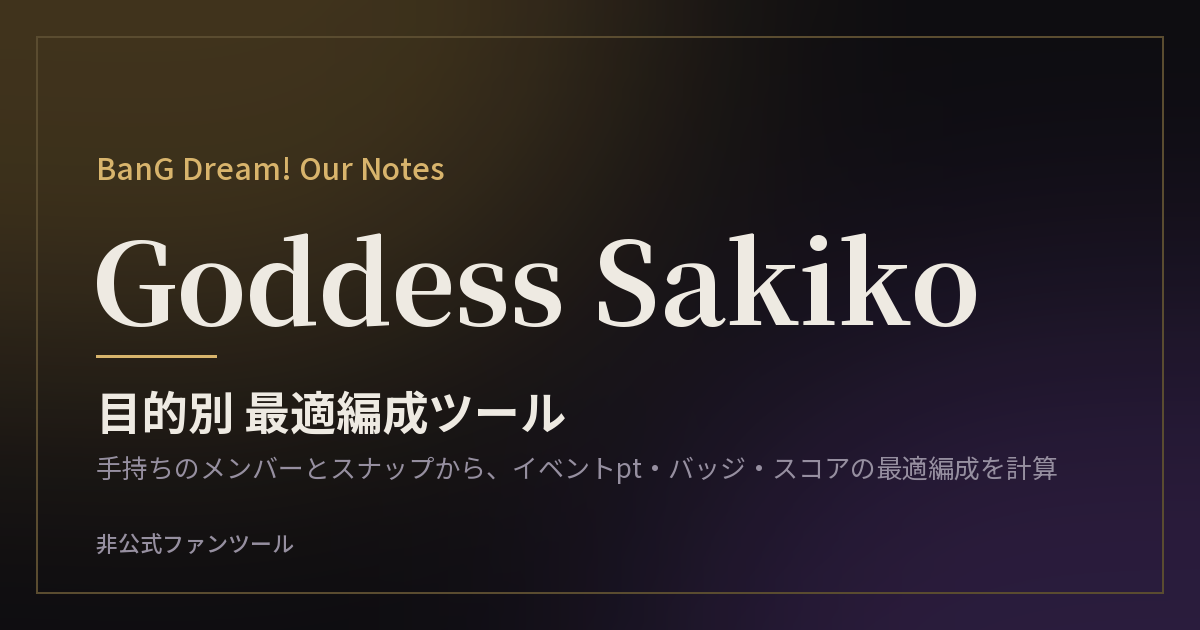
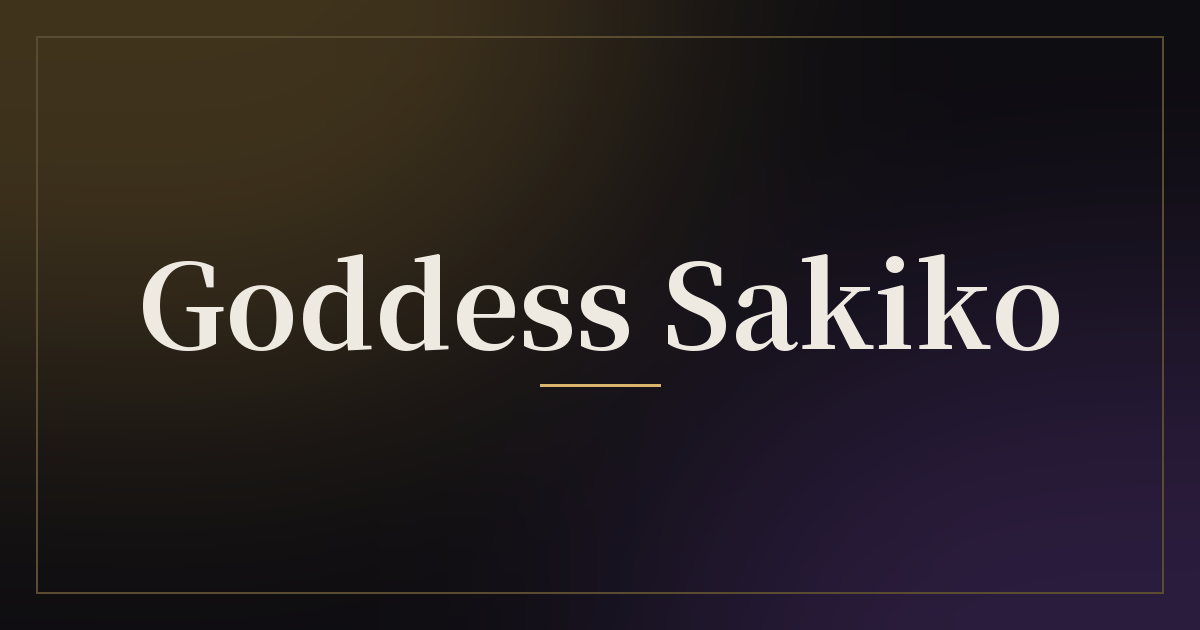
リンクプレビュー画像をタイトルだけに

diff --git a/docs/index.html b/docs/index.html
@@ -1,4 +1,4 @@
-<!doctype html><html lang="ja"><head><meta charset="utf-8"><meta name="viewport" content="width=device-width,initial-scale=1,viewport-fit=cover"><meta name="robots" content="noindex"><meta name="description" content="バンドリ！アワーノーツの手持ちのメンバーとスナップから、イベントpt・バッジ・スコアの最適編成を計算する非公式ツール"><meta property="og:type" content="website"><meta property="og:site_name" content="Goddess Sakiko"><meta property="og:locale" content="ja_JP"><meta property="og:title" content="Goddess Sakiko｜アワーノーツ 目的別最適編成ツール"><meta property="og:description" content="バンドリ！アワーノーツの手持ちのメンバーとスナップから、イベントpt・バッジ・スコアの最適編成を計算する非公式ツール"><meta property="og:url" content="https://sekiguchi-sechi.github.io/goddess-sakiko/"><meta property="og:image" content="https://sekiguchi-sechi.github.io/goddess-sakiko/ogp.png?v=1"><meta property="og:image:width" content="1200"><meta property="og:image:height" content="630"><meta property="og:image:alt" content="Goddess Sakiko — BanG Dream! Our Notes 目的別 最適編成ツール"><meta name="twitter:card" content="summary_large_image"><meta name="twitter:title" content="Goddess Sakiko｜アワーノーツ 目的別最適編成ツール"><meta name="twitter:description" content="バンドリ！アワーノーツの手持ちのメンバーとスナップから、イベントpt・バッジ・スコアの最適編成を計算する非公式ツール"><meta name="twitter:image" content="https://sekiguchi-sechi.github.io/goddess-sakiko/ogp.png?v=1"></head><body><title>Goddess Sakiko</title>
+<!doctype html><html lang="ja"><head><meta charset="utf-8"><meta name="viewport" content="width=device-width,initial-scale=1,viewport-fit=cover"><meta name="robots" content="noindex"><meta name="description" content="バンドリ！アワーノーツの手持ちのメンバーとスナップから、イベントpt・バッジ・スコアの最適編成を計算する非公式ツール"><meta property="og:type" content="website"><meta property="og:site_name" content="Goddess Sakiko"><meta property="og:locale" content="ja_JP"><meta property="og:title" content="Goddess Sakiko｜アワーノーツ 目的別最適編成ツール"><meta property="og:description" content="バンドリ！アワーノーツの手持ちのメンバーとスナップから、イベントpt・バッジ・スコアの最適編成を計算する非公式ツール"><meta property="og:url" content="https://sekiguchi-sechi.github.io/goddess-sakiko/"><meta property="og:image" content="https://sekiguchi-sechi.github.io/goddess-sakiko/ogp.png?v=2"><meta property="og:image:width" content="1200"><meta property="og:image:height" content="630"><meta property="og:image:alt" content="Goddess Sakiko — BanG Dream! Our Notes 目的別 最適編成ツール"><meta name="twitter:card" content="summary_large_image"><meta name="twitter:title" content="Goddess Sakiko｜アワーノーツ 目的別最適編成ツール"><meta name="twitter:description" content="バンドリ！アワーノーツの手持ちのメンバーとスナップから、イベントpt・バッジ・スコアの最適編成を計算する非公式ツール"><meta name="twitter:image" content="https://sekiguchi-sechi.github.io/goddess-sakiko/ogp.png?v=2"></head><body><title>Goddess Sakiko</title>
 <meta name="claude:viewport-fit-sides" content="cover">
 <link rel="preconnect" href="https://fonts.googleapis.com">
 <link rel="preconnect" href="https://fonts.gstatic.com" crossorigin>
